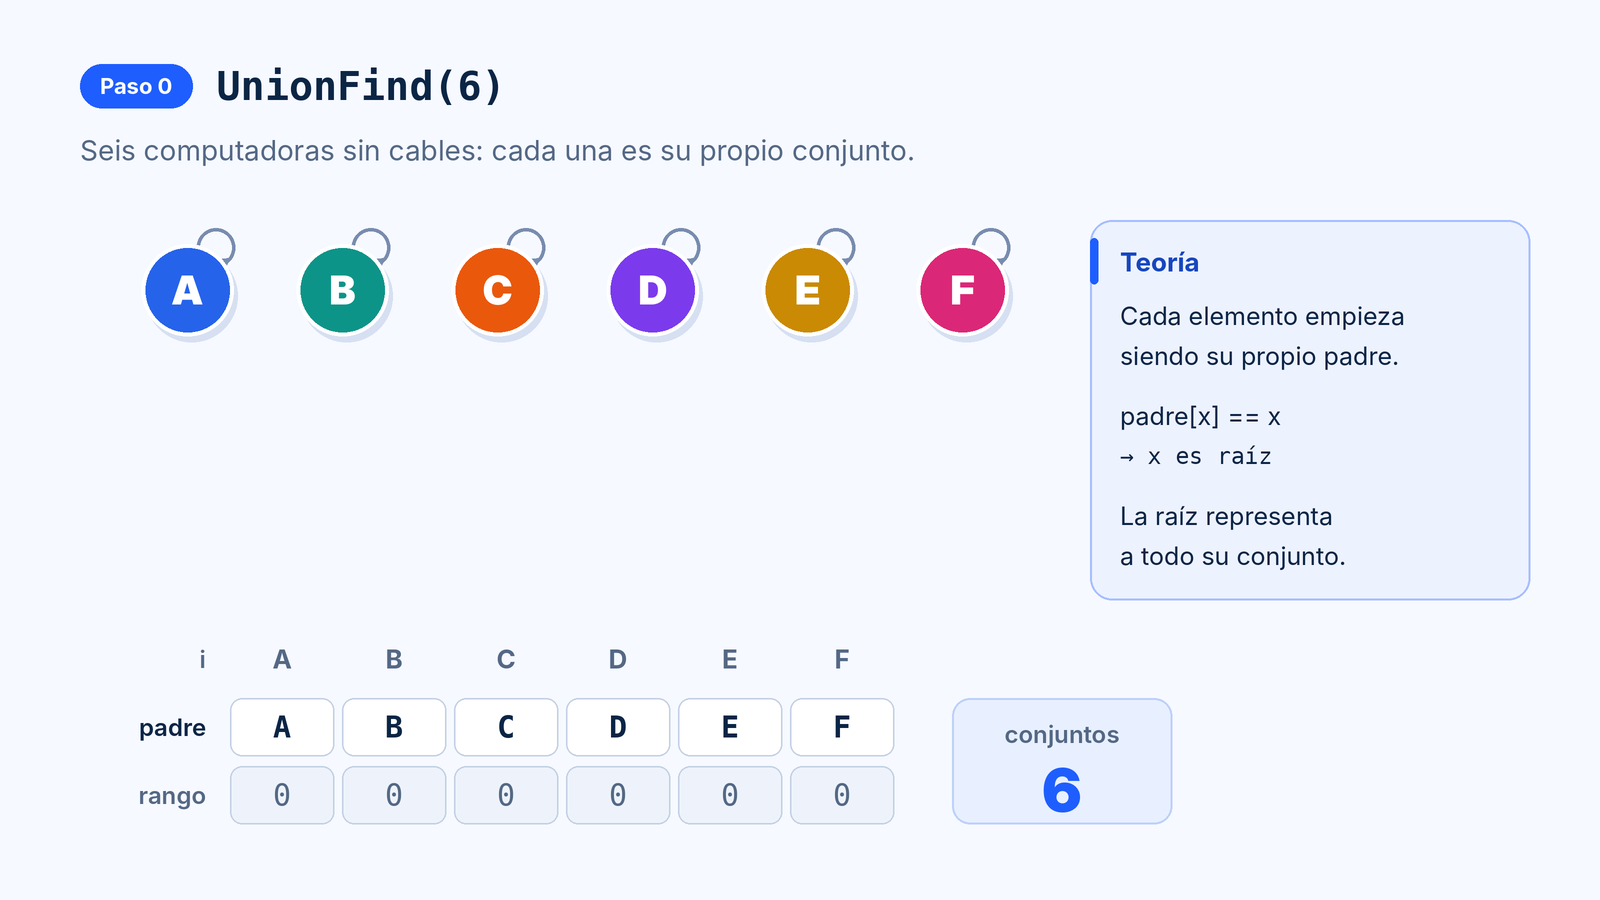
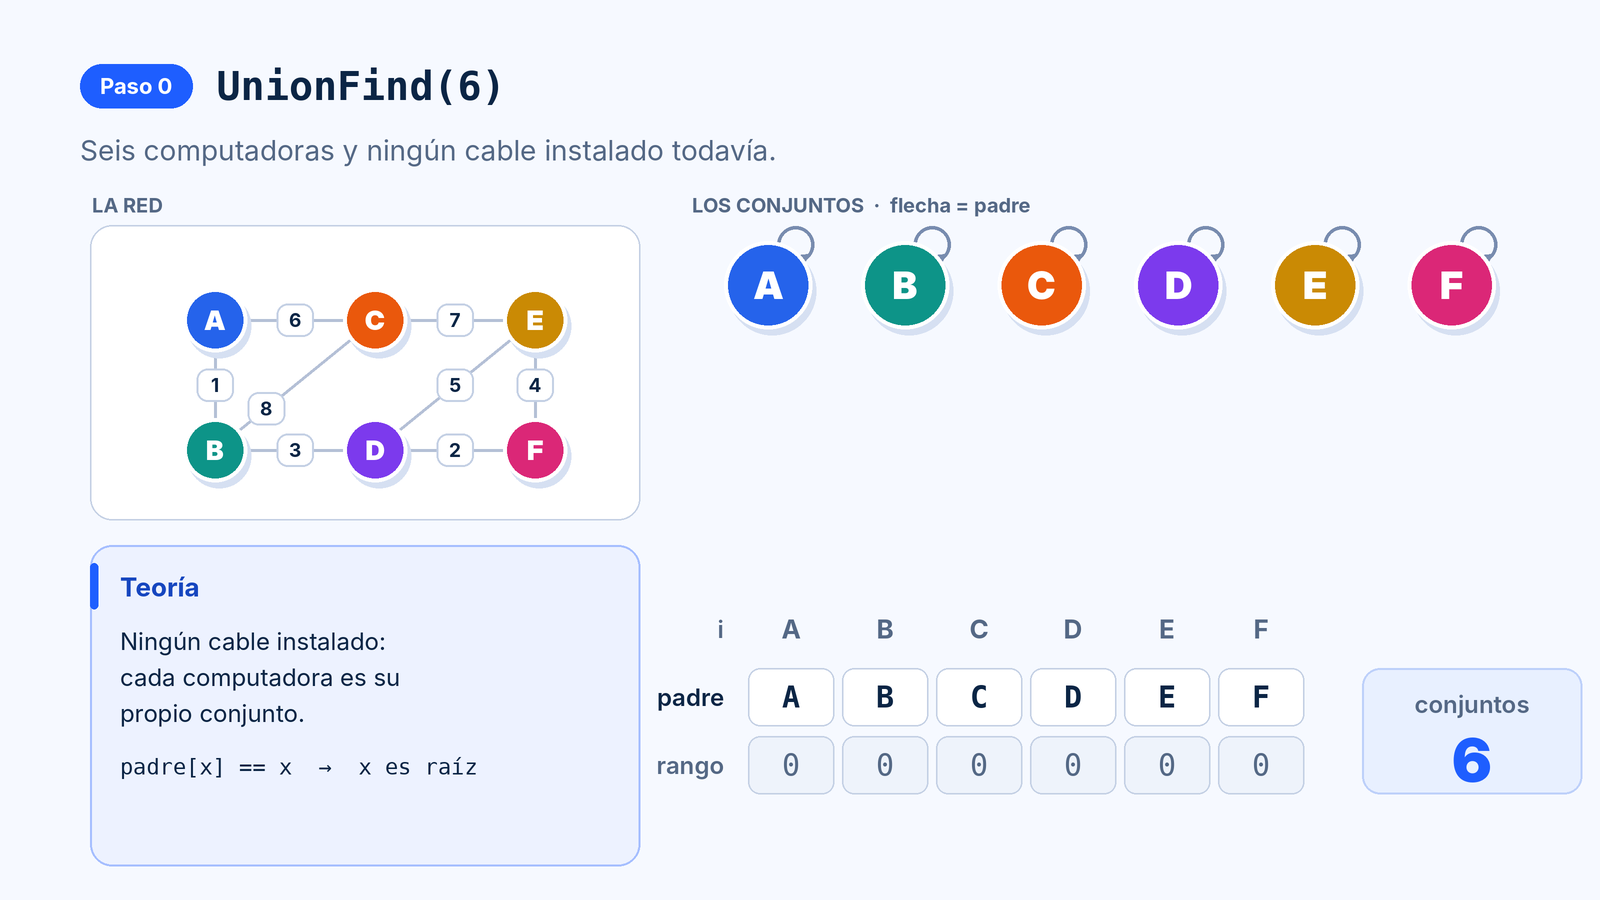
Sección 1: Union-Find sobre la misma red, instalando los cables
La sección 1 ahora instala los primeros 5 cables de la red (A-B, D-F, B-D,
E-F y D-E), que son los mismos que toma Kruskal en la sección 2. Cada paso
muestra la red y el bosque de conjuntos lado a lado.

Claude-Session: https://claude.ai/code/session_018q6ER5Fw2jY3Pm3LUcESgR

diff --git a/docs/index.html b/docs/index.html
@@ -159,31 +159,39 @@ class UnionFind {
 }
 const estado = uf => `   padre = [${uf.padre.map(p=>N[p]).join(", ")}]   rango = [${uf.rango.join(", ")}]   conjuntos = ${uf.conjuntos}`;
 
-/* ---------- Sección 1: los 7 pasos de union_find.py ---------- */
+/* ---------- Sección 1: instalar los primeros cables (union_find.py) ---------- */
+const sts = (nOk, rej) => { const st = Array(8).fill("p"); for(let i=0;i<nOk;i++) st[i]="a"; if(rej!==undefined) st[rej]="r"; return st; };
 const UF_STEPS = [
-  {op:"UnionFind(6)", tag:"Paso 0", color:"blue", desc:"Seis computadoras sin cables: cada una es su propio conjunto.",
-   th:["Inicio","Cada elemento es su propio padre. <code>padre[x] == x</code> significa que x es raíz, y la raíz representa a todo su conjunto."],
-   run:(uf,log)=>{ log.push(["h","Paso 0  UnionFind(6)"],["s",estado(uf)]); }},
-  {op:"union(A, B)", tag:"Paso 1", color:"blue", desc:"find(A) = A y find(B) = B: raíces distintas, se unen. Rangos iguales: B cuelga de A y rango[A] sube a 1.",
-   th:["Unión por rango","union une raíces. La raíz de menor rango cuelga de la de mayor; si empatan, se elige una y su rango sube 1. Así los árboles se mantienen bajos."],
-   run:(uf,log)=>{ const r=uf.union(0,1); log.push(["h",`Paso 1  union(A, B) -> ${py(r)}`],["s",estado(uf)]); return r; }},
-  {op:"union(D, F)", tag:"Paso 2", color:"blue", desc:"El mismo caso en otro grupo: F cuelga de D y rango[D] sube a 1.",
-   th:["Cada union resta un conjunto","Cada union exitosa reduce <code>conjuntos</code> en 1. Ahora hay dos árboles de altura 1: {A, B} y {D, F}."],
-   run:(uf,log)=>{ const r=uf.union(3,5); log.push(["h",`Paso 2  union(D, F) -> ${py(r)}`],["s",estado(uf)]); return r; }},
-  {op:"union(B, D)", tag:"Paso 3", color:"blue", desc:"find(B) = A y find(D) = D. Rangos iguales (1 y 1): el árbol de D cuelga de A y rango[A] sube a 2.",
-   th:["Se unen raíces, no elementos","Aunque pedimos unir B con D, quienes se conectan son sus raíces A y D. F queda a dos saltos de la raíz: F → D → A."],
-   run:(uf,log)=>{ const r=uf.union(1,3); log.push(["h",`Paso 3  union(B, D) -> ${py(r)}`],["s",estado(uf)]); return r; }},
-  {op:"find(F)", tag:"Paso 4", color:"amber", desc:"F sube por D hasta A. Al regresar de la recursión, F queda apuntando directo a la raíz.",
-   th:["Compresión de caminos","<code>padre[x] = find(padre[x])</code>: cada nodo del camino queda apuntando a la raíz. El árbol se aplana y el siguiente find(F) es inmediato."],
-   run:(uf,log)=>{ const r=uf.find(5); log.push(["f",`Paso 4  find(F) -> ${N[r]}   (compresión: F ahora apunta directo a A)`],["s",estado(uf)]); return N[r]; }},
-  {op:"conectados(B, F)", tag:"Paso 5", color:"green", desc:"find(B) = A y find(F) = A: misma raíz, misma red → True. En cambio conectados(A, E): A ≠ E → False.",
-   th:["Mismo conjunto ⇔ misma raíz","No se recorre la red: basta con dos find() y comparar. Esto es lo que Kruskal pregunta antes de comprar cada cable."],
-   run:(uf,log)=>{ const r=uf.conectados(1,5), r2=uf.conectados(0,4); log.push(["p",`Paso 5  conectados(B, F) -> ${py(r)}`],["f",`        conectados(A, E) -> ${py(r2)}`]); return r; }},
-  {op:"union(B, F)", tag:"Paso 6", color:"red", desc:"B y F ya tienen la misma raíz: union no cambia nada y devuelve False.",
-   th:["Detectar ciclos","Si <code>find(a) == find(b)</code>, ya había un camino entre a y b. En un grafo, esa arista cerraría un ciclo. Kruskal usa exactamente este False."],
-   run:(uf,log)=>{ const r=uf.union(1,5); log.push(["f",`Paso 6  union(B, F) -> ${py(r)}   (misma raíz: sería un ciclo)`],["s",estado(uf)]); return r; }},
+  {op:"UnionFind(6)", tag:"Paso 0", color:"blue", st:sts(0), cur:-1, focus:[],
+   desc:"Seis computadoras y ningún cable instalado todavía: cada una es su propio conjunto.",
+   th:["Inicio","<code>padre[x] == x</code> significa que x es raíz, y la raíz representa a todo su grupo. Al inicio hay 6 grupos de uno."],
+   run:(uf,log)=>{ log.push(["h","Paso 0  UnionFind(6)   ningún cable instalado"],["s",estado(uf)]); }},
+  {op:"cable A–B · union(A, B)", tag:"Paso 1", color:"blue", st:sts(1), cur:0, focus:["A","B"],
+   desc:"find(A) = A y find(B) = B: raíces distintas, así que el cable se instala.",
+   th:["Unión por rango","Instalar un cable es un <code>union</code>. La raíz de menor rango cuelga de la de mayor; si empatan, la elegida sube su rango en 1. Así los árboles no crecen de alto."],
+   run:(uf,log)=>{ const r=uf.union(0,1); log.push(["h",`Paso 1  cable A-B (1)   union(A, B) -> ${py(r)}`],["s",estado(uf)]); return r; }},
+  {op:"cable D–F · union(D, F)", tag:"Paso 2", color:"blue", st:sts(2), cur:1, focus:["D","F"],
+   desc:"Otro par sin conectar: F cuelga de D y rango[D] sube a 1.",
+   th:["Un bosque, no un árbol","{A, B} y {D, F} son grupos separados. La red crece como un bosque que después se junta. Cada union exitosa baja <code>conjuntos</code> en 1."],
+   run:(uf,log)=>{ const r=uf.union(3,5); log.push(["h",`Paso 2  cable D-F (2)   union(D, F) -> ${py(r)}`],["s",estado(uf)]); return r; }},
+  {op:"cable B–D · union(B, D)", tag:"Paso 3", color:"blue", st:sts(3), cur:2, focus:["B","D"],
+   desc:"find(B) = A y find(D) = D. Rangos iguales (1 y 1): el árbol de D entero cuelga de A.",
+   th:["Se unen raíces, no elementos","El cable es B–D, pero quienes se conectan son sus raíces A y D. rango[A] sube a 2 y F queda a dos saltos de la raíz."],
+   run:(uf,log)=>{ const r=uf.union(1,3); log.push(["h",`Paso 3  cable B-D (3)   union(B, D) -> ${py(r)}`],["s",estado(uf)]); return r; }},
+  {op:"cable E–F · union(E, F)", tag:"Paso 4", color:"amber", st:sts(4), cur:3, focus:["E","F"],
+   desc:"find(F) sube F → D → A y comprime el camino. Como rango[E] = 0 < 2, E cuelga de A.",
+   th:["Compresión de caminos","<code>padre[x] = find(padre[x])</code>: al volver de la recursión, cada nodo del camino queda apuntando a la raíz. El árbol se aplana solo."],
+   run:(uf,log)=>{ const r=uf.union(4,5); log.push(["h",`Paso 4  cable E-F (4)   union(E, F) -> ${py(r)}   (find(F): F -> D -> A y comprime)`],["s",estado(uf)]); return r; }},
+  {op:"¿ya están conectadas?", tag:"Paso 5", color:"green", st:sts(4), cur:-1, focus:["B","E"],
+   desc:"conectados(B, E) → True, porque las dos llegan a la raíz A. conectados(A, C) → False.",
+   th:["Mismo grupo ⇔ misma raíz","Para saber si dos computadoras ya están conectadas no se recorre la red: basta con dos find() y comparar. Esto es lo que Kruskal pregunta por cada cable."],
+   run:(uf,log)=>{ const r=uf.conectados(1,4), r2=uf.conectados(0,2);
+     log.push(["h","Paso 5  ¿ya están conectadas?"],["p",`        conectados(B, E) -> ${py(r)}`],["f",`        conectados(A, C) -> ${py(r2)}`]); return r; }},
+  {op:"cable D–E · union(D, E)", tag:"Paso 6", color:"red", st:sts(4,4), cur:4, focus:["D","E"],
+   desc:"find(D) = find(E) = A: ya hay camino D–F–E, así que este cable cerraría un ciclo y se descarta.",
+   th:["Detectar ciclos","Si <code>find(a) == find(b)</code>, union no cambia nada y devuelve False. Kruskal usa justo ese False para saber qué cable sobra."],
+   run:(uf,log)=>{ const r=uf.union(3,4); log.push(["f",`Paso 6  cable D-E (5)   union(D, E) -> ${py(r)}   (misma raíz: sería un ciclo)`],["s",estado(uf)]); return r; }},
 ];
-const UF_FOCUS = [[],["A","B"],["D","F"],["B","D"],["F"],["B","F","E"],["B","F"]];
 
 /* ---------- Sección 2: Kruskal (kruskal.py) ---------- */
 function kruskalTrace(){
@@ -311,9 +319,11 @@ function render(){
   document.getElementById("stepControls").hidden = mode==="free";
   document.getElementById("freeControls").hidden = mode!=="free";
   if(mode==="uf"){
-    stage.classList.add("one"); netView.hidden=true; document.getElementById("cablesBox").innerHTML="";
+    stage.classList.remove("one"); netView.hidden=false; document.getElementById("cablesBox").innerHTML="";
     const s=UF_STATES[k], rings={};
-    (UF_FOCUS[k]||[]).forEach(c=>rings[c]= s.color==="red"?COL.red : (k===5&&c==="E")?COL.red : s.color==="green"?COL.green:COL.amber);
+    (s.focus||[]).forEach(c=>rings[c]= s.color==="red"?COL.red : s.color==="green"?COL.green : COL.amber);
+    if(k===5) rings["C"]=COL.red;
+    drawNet(document.getElementById("net"), s.st, s.cur, k? s.uf.padre : s.uf.padre, false);
     drawForest(document.getElementById("forest"), s.uf.padre, s.prev&&s.prev.padre, rings);
     drawTable(s.uf, s.prev); setSide(s); drawConsole(s.log, s.n0); dots(UF_STATES.length);
   } else if(mode==="k"){

diff --git a/src/union_find.py b/src/union_find.py
@@ -44,21 +44,25 @@ def estado(uf):
 
 
 def demo():
+    """Instala los primeros cables de la red de 6 computadoras, uno por uno."""
     uf = UnionFind(6)
-    print("Paso 0  UnionFind(6)")
+    print("Paso 0  UnionFind(6)   ningún cable instalado")
     print(estado(uf))
 
-    print("Paso 1  union(A, B) ->", uf.union(ID["A"], ID["B"]))
+    print("Paso 1  cable A-B (1)   union(A, B) ->", uf.union(ID["A"], ID["B"]))
     print(estado(uf))
-    print("Paso 2  union(D, F) ->", uf.union(ID["D"], ID["F"]))
+    print("Paso 2  cable D-F (2)   union(D, F) ->", uf.union(ID["D"], ID["F"]))
     print(estado(uf))
-    print("Paso 3  union(B, D) ->", uf.union(ID["B"], ID["D"]))
+    print("Paso 3  cable B-D (3)   union(B, D) ->", uf.union(ID["B"], ID["D"]))
     print(estado(uf))
-    print("Paso 4  find(F) ->", NOMBRES[uf.find(ID["F"])], "  (compresión: F ahora apunta directo a A)")
+    print("Paso 4  cable E-F (4)   union(E, F) ->", uf.union(ID["E"], ID["F"]),
+          "  (find(F): F -> D -> A y comprime)")
     print(estado(uf))
-    print("Paso 5  conectados(B, F) ->", uf.conectados(ID["B"], ID["F"]))
-    print("        conectados(A, E) ->", uf.conectados(ID["A"], ID["E"]))
-    print("Paso 6  union(B, F) ->", uf.union(ID["B"], ID["F"]), "  (misma raíz: sería un ciclo)")
+    print("Paso 5  ¿ya están conectadas?")
+    print("        conectados(B, E) ->", uf.conectados(ID["B"], ID["E"]))
+    print("        conectados(A, C) ->", uf.conectados(ID["A"], ID["C"]))
+    print("Paso 6  cable D-E (5)   union(D, E) ->", uf.union(ID["D"], ID["E"]),
+          "  (misma raíz: sería un ciclo)")
     print(estado(uf))
     return uf
 

diff --git a/tests/test_union_find.py b/tests/test_union_find.py
@@ -23,16 +23,17 @@ def test_compresion():
     uf = UnionFind(6)
     uf.union(ID["A"], ID["B"]); uf.union(ID["D"], ID["F"]); uf.union(ID["B"], ID["D"])
     assert uf.padre[ID["F"]] == ID["D"]          # F está a dos saltos de A
-    assert uf.find(ID["F"]) == ID["A"]
+    uf.union(ID["E"], ID["F"])                   # el cable E-F llama a find(F)
     assert uf.padre[ID["F"]] == ID["A"]          # después del find, apunta directo
 
 
 def test_conectados_y_ciclo():
     uf = UnionFind(6)
-    uf.union(ID["A"], ID["B"]); uf.union(ID["D"], ID["F"]); uf.union(ID["B"], ID["D"])
-    assert uf.conectados(ID["B"], ID["F"])
-    assert not uf.conectados(ID["A"], ID["E"])
-    assert uf.union(ID["B"], ID["F"]) is False   # cerraría un ciclo
+    for u, v in [("A", "B"), ("D", "F"), ("B", "D"), ("E", "F")]:
+        uf.union(ID[u], ID[v])
+    assert uf.conectados(ID["B"], ID["E"])
+    assert not uf.conectados(ID["A"], ID["C"])
+    assert uf.union(ID["D"], ID["E"]) is False   # el cable D-E cerraría un ciclo
 
 
 def test_kruskal():

diff --git a/README.md b/README.md
@@ -92,8 +92,11 @@ costo. Hay que conectarlas todas gastando lo menos posible.
 
 Surgen dos preguntas:
 
-1. **¿Estas dos computadoras ya están conectadas?** La responde Union-Find (sección 1).
-2. **¿Qué cables compro?** La responde Kruskal, que usa Union-Find para no formar ciclos (sección 2).
+1. **¿Estas dos computadoras ya están conectadas?** La responde Union-Find.
+   En la **sección 1** instalamos cables a mano, uno por uno, para ver cómo funciona por dentro.
+2. **¿Qué cables compro para gastar lo menos posible?** La responde Kruskal.
+   En la **sección 2** es el algoritmo el que decide el orden, usando el mismo Union-Find
+   para no formar ciclos.
 
 En el código, `A..F` son los índices `0..5` (`ID = {"A": 0, "B": 1, ...}`).
 En las tablas, **en negrita** lo que cambia respecto al paso anterior.
@@ -104,14 +107,19 @@ En las tablas, **en negrita** lo que cambia respecto al paso anterior.
 
 ![Sección 1](media/s1_portada.png)
 
+En esta sección **instalamos cables a mano**, uno por uno, y vemos qué le pasa a la
+estructura por dentro. En la sección 2 será el algoritmo el que decida el orden.
+Las imágenes muestran siempre lo mismo: a la izquierda **la red**, a la derecha
+**los conjuntos** y abajo los arreglos `padre` y `rango`.
+
 ### Teoría
 
 ![Teoría de Union-Find](media/s1_teoria.png)
 
-- Cada conjunto es un **árbol**; su raíz es el representante.
+- Cada grupo de computadoras conectadas es un **árbol**; su raíz lo representa.
 - `padre[x]` guarda el padre de `x`. Si `padre[x] == x`, `x` es raíz.
-- `find(x)` sube hasta la raíz. `union(a, b)` cuelga una raíz de la otra.
-  `conectados(a, b)` compara `find(a)` con `find(b)`.
+- Instalar un cable es `union(a, b)`; preguntar si dos ya están conectadas es
+  `conectados(a, b)`, que compara `find(a)` con `find(b)`.
 - **Unión por rango:** el árbol bajo cuelga del alto, así la altura queda en `O(log n)`.
 - **Compresión de caminos:** `find` deja todo el camino apuntando a la raíz.
   Con las dos, cada operación cuesta `O(α(n))` amortizado.
@@ -154,26 +162,25 @@ class UnionFind:
 > (`_init_`), Python no lo reconoce como constructor y `UnionFind(6)` falla con
 > `TypeError: UnionFind() takes no arguments`.
 
-### Paso 0 · `UnionFind(6)`
+### Paso 0 · `UnionFind(6)` · ningún cable instalado
 
 ![Paso 0](media/s1_paso0.png)
 
-**Teoría:** cada elemento empieza siendo su propio padre. La raíz representa a
-todo su conjunto. Al inicio hay 6 conjuntos de un elemento.
+**Teoría:** cada computadora empieza siendo su propio padre y su propio grupo.
 
 | i | A | B | C | D | E | F | conjuntos |
 |---|:---:|:---:|:---:|:---:|:---:|:---:|:---:|
 | `padre` | A | B | C | D | E | F | **6** |
 | `rango` | 0 | 0 | 0 | 0 | 0 | 0 | |
 
-### Paso 1 · `union(A, B)`
+### Paso 1 · cable A–B (1) · `union(A, B)`
 
 ![Paso 1](media/s1_paso1.png)
 
 **Teoría (unión por rango):** `union` une raíces. La de menor rango cuelga de la
 de mayor; si empatan, se elige una y su rango sube 1.
 
-1. `find(A) = A` y `find(B) = B`. Raíces distintas.
+1. `find(A) = A` y `find(B) = B`. Raíces distintas, el cable sirve.
 2. `rango[A] = rango[B] = 0`: no hay intercambio.
 3. `padre[B] ← A` y, como empataron, `rango[A]` sube a `1`.
 
@@ -182,20 +189,20 @@ de mayor; si empatan, se elige una y su rango sube 1.
 | `padre` | A | **A** | C | D | E | F | **5** |
 | `rango` | **1** | 0 | 0 | 0 | 0 | 0 | |
 
-### Paso 2 · `union(D, F)`
+### Paso 2 · cable D–F (2) · `union(D, F)`
 
 ![Paso 2](media/s1_paso2.png)
 
-**Teoría:** cada `union` exitosa reduce `conjuntos` en 1. El mismo caso en otro
-grupo: `padre[F] ← D` y `rango[D]` sube a `1`. Ahora hay dos árboles de altura 1,
-`{A, B}` y `{D, F}`.
+**Teoría:** la red crece como un **bosque**, no como un solo árbol. `{A, B}` y
+`{D, F}` son dos grupos todavía separados, y cada `union` exitosa baja
+`conjuntos` en 1.
 
 | i | A | B | C | D | E | F | conjuntos |
 |---|:---:|:---:|:---:|:---:|:---:|:---:|:---:|
 | `padre` | A | A | C | D | E | **D** | **4** |
 | `rango` | 1 | 0 | 0 | **1** | 0 | 0 | |
 
-### Paso 3 · `union(B, D)` · se unen raíces, no elementos
+### Paso 3 · cable B–D (3) · `union(B, D)` · se unen raíces, no elementos
 
 ![Paso 3](media/s1_paso3.png)
 
@@ -218,41 +225,42 @@ grupo: `padre[F] ← D` y `rango[D]` sube a `1`. Ahora hay dos árboles de altur
 | `padre` | A | A | C | **A** | E | D | **3** |
 | `rango` | **2** | 0 | 0 | 1 | 0 | 0 | |
 
-### Paso 4 · `find(F)` · compresión de caminos
+### Paso 4 · cable E–F (4) · `union(E, F)` · compresión de caminos
 
 ![Paso 4](media/s1_paso4.png)
 
 **Teoría:** `padre[x] = find(padre[x])`. La recursión llega a la raíz y, al
 regresar, deja a cada nodo del camino apuntando a ella.
 
-`F` estaba a dos saltos: `F → D → A`. Después del `find`, `padre[F] = A`.
+1. `find(E) = E`.
+2. `find(F)` recorre `F → D → A` y de paso reescribe `padre[F] = A`.
+3. `rango[E] = 0 < rango[A] = 2`, así que `E` cuelga de `A` y ningún rango sube.
 
 | i | A | B | C | D | E | F | conjuntos |
 |---|:---:|:---:|:---:|:---:|:---:|:---:|:---:|
-| `padre` | A | A | C | A | E | **A** | 3 |
+| `padre` | A | A | C | A | **A** | **A** | **2** |
 | `rango` | 2 | 0 | 0 | 1 | 0 | 0 | |
 
-`conjuntos` no cambia porque los grupos son los mismos. `rango[A]` sigue en `2`
-aunque la altura real ya es `1`: el rango es una **cota** de la altura, no la
-altura exacta.
+`rango[A]` sigue en `2` aunque la altura real ya es `1`: el rango es una **cota**
+de la altura, no la altura exacta.
 
-### Paso 5 · `conectados(B, F)` y `conectados(A, E)`
+### Paso 5 · ¿ya están conectadas?
 
 ![Paso 5](media/s1_paso5.png)
 
-**Teoría:** dos elementos están en el mismo conjunto si y solo si tienen la misma
+**Teoría:** dos computadoras están en el mismo grupo si y solo si tienen la misma
 raíz. No se recorre la red, solo se hacen dos `find`.
 
-- `find(B) = A` y `find(F) = A`. Misma raíz: **`True`**.
-- `find(A) = A` y `find(E) = E`. Raíces distintas: **`False`**.
+- `conectados(B, E)`: `find(B) = A` y `find(E) = A`. Misma raíz: **`True`**.
+- `conectados(A, C)`: `find(A) = A` y `find(C) = C`. Raíces distintas: **`False`**.
 
-### Paso 6 · `union(B, F)` regresa `False`
+### Paso 6 · cable D–E (5) · `union(D, E)` regresa `False`
 
 ![Paso 6](media/s1_paso6.png)
 
-**Teoría:** si `find(a) == find(b)`, ya había un camino entre `a` y `b`. En un
-grafo, esa arista cerraría un **ciclo**. `union` corta en el primer `if` y
-regresa **`False`** sin tocar nada. Esto es justo lo que usa Kruskal.
+**Teoría:** `find(D) = find(E) = A`, así que ya existe el camino `D–F–E`. Este
+cable solo cerraría un **ciclo**: `union` corta en el primer `if` y regresa
+**`False`** sin tocar nada. Es exactamente la señal que usa Kruskal.
 
 ### Lo que imprime
 
@@ -260,20 +268,21 @@ regresa **`False`** sin tocar nada. Esto es justo lo que usa Kruskal.
 
 ```
 $ python src/union_find.py
-Paso 0  UnionFind(6)
+Paso 0  UnionFind(6)   ningún cable instalado
    padre = [A, B, C, D, E, F]   rango = [0, 0, 0, 0, 0, 0]   conjuntos = 6
-Paso 1  union(A, B) -> True
+Paso 1  cable A-B (1)   union(A, B) -> True
    padre = [A, A, C, D, E, F]   rango = [1, 0, 0, 0, 0, 0]   conjuntos = 5
-Paso 2  union(D, F) -> True
+Paso 2  cable D-F (2)   union(D, F) -> True
    padre = [A, A, C, D, E, D]   rango = [1, 0, 0, 1, 0, 0]   conjuntos = 4
-Paso 3  union(B, D) -> True
+Paso 3  cable B-D (3)   union(B, D) -> True
    padre = [A, A, C, A, E, D]   rango = [2, 0, 0, 1, 0, 0]   conjuntos = 3
-Paso 4  find(F) -> A   (compresión: F ahora apunta directo a A)
-   padre = [A, A, C, A, E, A]   rango = [2, 0, 0, 1, 0, 0]   conjuntos = 3
-Paso 5  conectados(B, F) -> True
-        conectados(A, E) -> False
-Paso 6  union(B, F) -> False   (misma raíz: sería un ciclo)
-   padre = [A, A, C, A, E, A]   rango = [2, 0, 0, 1, 0, 0]   conjuntos = 3
+Paso 4  cable E-F (4)   union(E, F) -> True   (find(F): F -> D -> A y comprime)
+   padre = [A, A, C, A, A, A]   rango = [2, 0, 0, 1, 0, 0]   conjuntos = 2
+Paso 5  ¿ya están conectadas?
+        conectados(B, E) -> True
+        conectados(A, C) -> False
+Paso 6  cable D-E (5)   union(D, E) -> False   (misma raíz: sería un ciclo)
+   padre = [A, A, C, A, A, A]   rango = [2, 0, 0, 1, 0, 0]   conjuntos = 2
 ```
 
 ---
@@ -339,7 +348,8 @@ cada computadora es su propio conjunto.
 ![Paso 1](media/s2_paso1.png)
 
 `find(A) = A`, `find(B) = B`. Raíces distintas: no hay camino entre ellas, así
-que se acepta y `union(A, B)` las junta. Es el paso 1 de la sección 1.
+que se acepta y `union(A, B)` las junta. Es literalmente el paso 1 de la sección 1:
+los tres cables más baratos son los mismos que instalamos a mano.
 
 ### Paso 2 · `D–F (2)` ✓
 
@@ -360,7 +370,8 @@ un **bosque** que se va uniendo, no como un solo árbol.
 ![Paso 4](media/s2_paso4.png)
 
 `find(E) = E`. `find(F)` recorre `F → D → A` y **comprime**: `F` queda apuntando
-a `A`. Como `rango[E] = 0 < rango[A] = 2`, `E` cuelga de `A`.
+a `A`. Como `rango[E] = 0 < rango[A] = 2`, `E` cuelga de `A`. Es el paso 4 de la
+sección 1.
 
 ### Paso 5 · `D–E (5)` ✗ ciclo
 
@@ -368,7 +379,7 @@ a `A`. Como `rango[E] = 0 < rango[A] = 2`, `E` cuelga de `A`.
 
 `find(D) = A` y `find(E) = A`. **Misma raíz**: `D` y `E` ya están conectados por
 `D–F–E`, así que este cable cerraría un ciclo. `union` regresa `False` y se
-descarta.
+descarta. Es el paso 6 de la sección 1.
 
 ### Paso 6 · `A–C (6)` ✓ y termina
 
